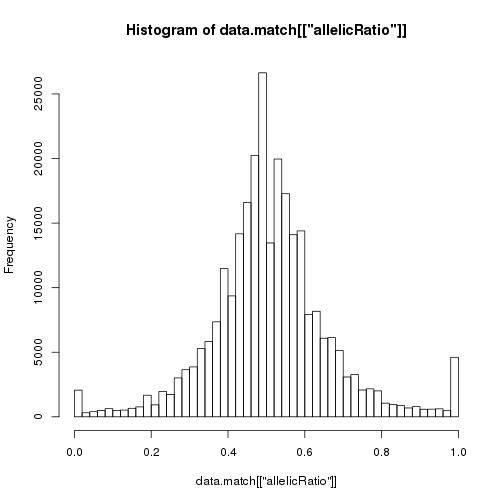
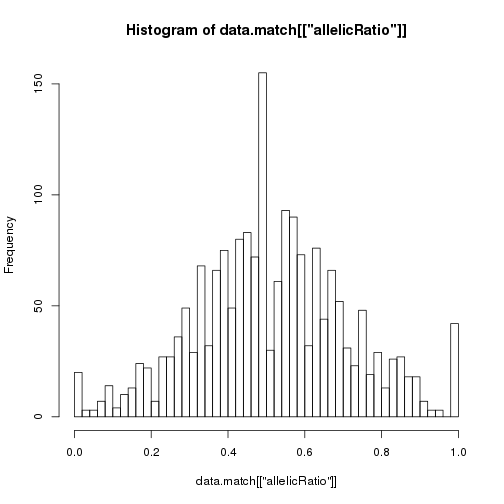
update

diff --git a/vignettes/npbin-atac.md b/vignettes/npbin-atac.md
@@ -1,0 +1,211 @@
+---
+title: "Estimate overdispersion on the ATAC-seq dataset from the NPBin paper"
+author: "Anthony Aylward"
+date: "2018-08-02"
+output: rmarkdown::html_vignette
+vignette: >
+  %\VignetteIndexEntry{Vignette Title}
+  %\VignetteEngine{knitr::rmarkdown}
+  %\VignetteEncoding{UTF-8}
+---
+
+
+
+## Prepare the data.
+
+This vignette requires the [npbin](https://github.com/anthony-aylward/npbin) 
+package.
+
+
+```r
+library(chenimbalance)
+library(npbin)
+total_reads <- atac[["m"]]
+data <- data.frame(
+  total = total_reads,
+  allelicRatio =  atac[["xm"]] / atac[["m"]]
+)
+data <- data[total_reads >= 5,]
+data <- data[1:2000,]
+head(data)
+#>   total allelicRatio
+#> 1     9    0.6666667
+#> 2    71    0.6197183
+#> 3    65    0.4307692
+#> 4     7    0.4285714
+#> 5     7    0.8571429
+#> 6    14    0.7857143
+```
+
+## Empirical distribution
+
+Compute the empirical allelic ratio distribution
+
+
+```r
+binSize <- 40
+bins <- pretty(0:1, binSize)
+minN <- 6
+maxN <- min(2500, max(data[["total"]]))
+empirical <- empirical_allelic_ratio(
+  data,
+  bins,
+  maxN = maxN,
+  minN = minN,
+  plot = TRUE
+)
+```
+
+![plot of chunk unnamed-chunk-2](figure/unnamed-chunk-2-1.png)
+
+## Expected Binomial and Beta-Binomial distributions
+
+Compute the weighted expected binomial distribution
+
+
+```r
+w <- weight_by_empirical_counts(data[["total"]])
+d_combined_sorted_binned <- nulldistrib(
+  w,
+  minN = minN,
+  binSize = binSize
+)
+```
+
+Compute the sum of squared errors for the empirical distribution vs the 
+weighted expected binomial distribution.
+
+
+```r
+sse <- sum((empirical - d_combined_sorted_binned[,2])^2)
+sse
+#> [1] 0.007110035
+```
+
+Choose the overdispersion parameter for the beta-binomial distribution
+
+
+```r
+w_grad <- graded_weights_for_sse_calculation(r_min = 0, r_max = 1, bins = bins)
+overdispersion_details <- choose_overdispersion_parameter(
+  w_grad,
+  w,
+  empirical,
+  sse
+)
+head(overdispersion_details[["b_and_sse"]])
+#>        b          sse
+#> [1,] 0.0 0.0071100351
+#> [2,] 0.1 0.0007273913
+#> [3,] 0.2 0.0031788478
+#> [4,] 0.0 0.0000000000
+#> [5,] 0.0 0.0000000000
+#> [6,] 0.0 0.0000000000
+```
+
+Generate a plot of the weighted expected binomial and weighted expected 
+beta-binomial distributions overlaid on the empirical distribution
+
+
+```r
+plot_distributions(
+  minN,
+  maxN,
+  bins,
+  empirical,
+  d_combined_sorted_binned,
+  overdispersion_details[["e_combined_sorted_binned"]],
+  yuplimit = 0.15
+)
+```
+
+![plot of chunk unnamed-chunk-6](figure/unnamed-chunk-6-1.png)
+
+`overdispersion_details` is a list whose elements include the chosen value of 
+`b` and the sum of squared errors.
+
+
+```r
+paste(
+  "b_chosen =",
+  overdispersion_details[["b_choice"]],
+  ", SSE_chosen =",
+  overdispersion_details[["sse"]]
+)
+#> [1] "b_chosen = 0.1 , SSE_chosen = 0.000727391258190998"
+```
+
+Optimize the overdispersion parameter
+
+
+```r
+optimized_overdispersion_details <- optimize_overdispersion_parameter(
+  w_grad,
+  overdispersion_details[["b_and_sse"]],
+  overdispersion_details[["b_choice"]],
+  overdispersion_details[["sse"]],
+  empirical,
+  overdispersion_details[["counter"]],
+  minN = minN,
+  binSize = binSize
+)
+plot_distributions(
+  minN,
+  maxN,
+  bins,
+  empirical,
+  d_combined_sorted_binned,
+  optimized_overdispersion_details[["e_combined_sorted_binned"]],
+  yuplimit = 0.15
+)
+```
+
+![plot of chunk unnamed-chunk-8](figure/unnamed-chunk-8-1.png)
+
+Check the optimized value
+
+
+```r
+list(
+  b = optimized_overdispersion_details[["b_choice"]],
+  sse = optimized_overdispersion_details[["sse"]]
+)
+#> $b
+#> [1] 0.06796875
+#> 
+#> $sse
+#> [1] 0.0004410953
+```
+
+Plot the parameter search space
+
+
+```r
+b_and_sse <- (
+  optimized_overdispersion_details[["b_and_sse"]]
+  [1:(optimized_overdispersion_details[["counter"]] + 2),]
+)
+plot(
+  b_and_sse[order(b_and_sse[,1]),],
+  type = "b",
+  pch = 16,
+  xlim = c(min(b_and_sse[,1]), max(b_and_sse[,1])),
+  ylim = c(min(b_and_sse[,2]), max(b_and_sse[,2]))
+)
+par(new = TRUE)
+plot(
+  optimized_overdispersion_details[["b_choice"]],
+  optimized_overdispersion_details[["sse"]],
+  bty = "n",
+  ylab = "",
+  xlab = "",
+  yaxt = "n",
+  xaxt = "n",
+  col = "red",
+  pch = 8,
+  xlim = c(min(b_and_sse[,1]), max(b_and_sse[,1])),
+  ylim = c(min(b_and_sse[,2]), max(b_and_sse[,2]))
+)
+```
+
+![plot of chunk unnamed-chunk-10](figure/unnamed-chunk-10-1.png)
